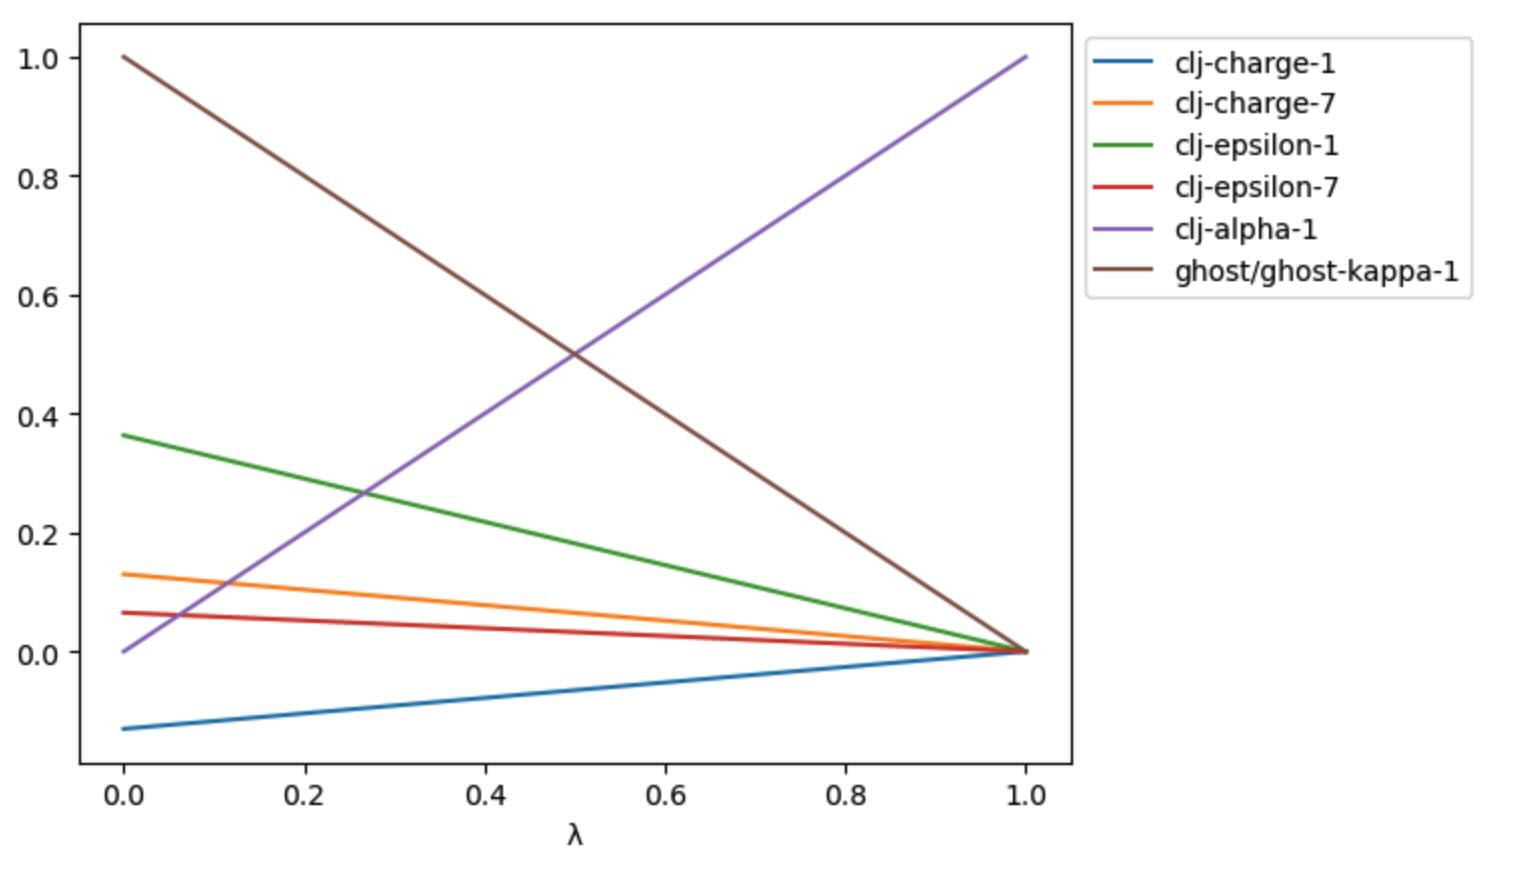
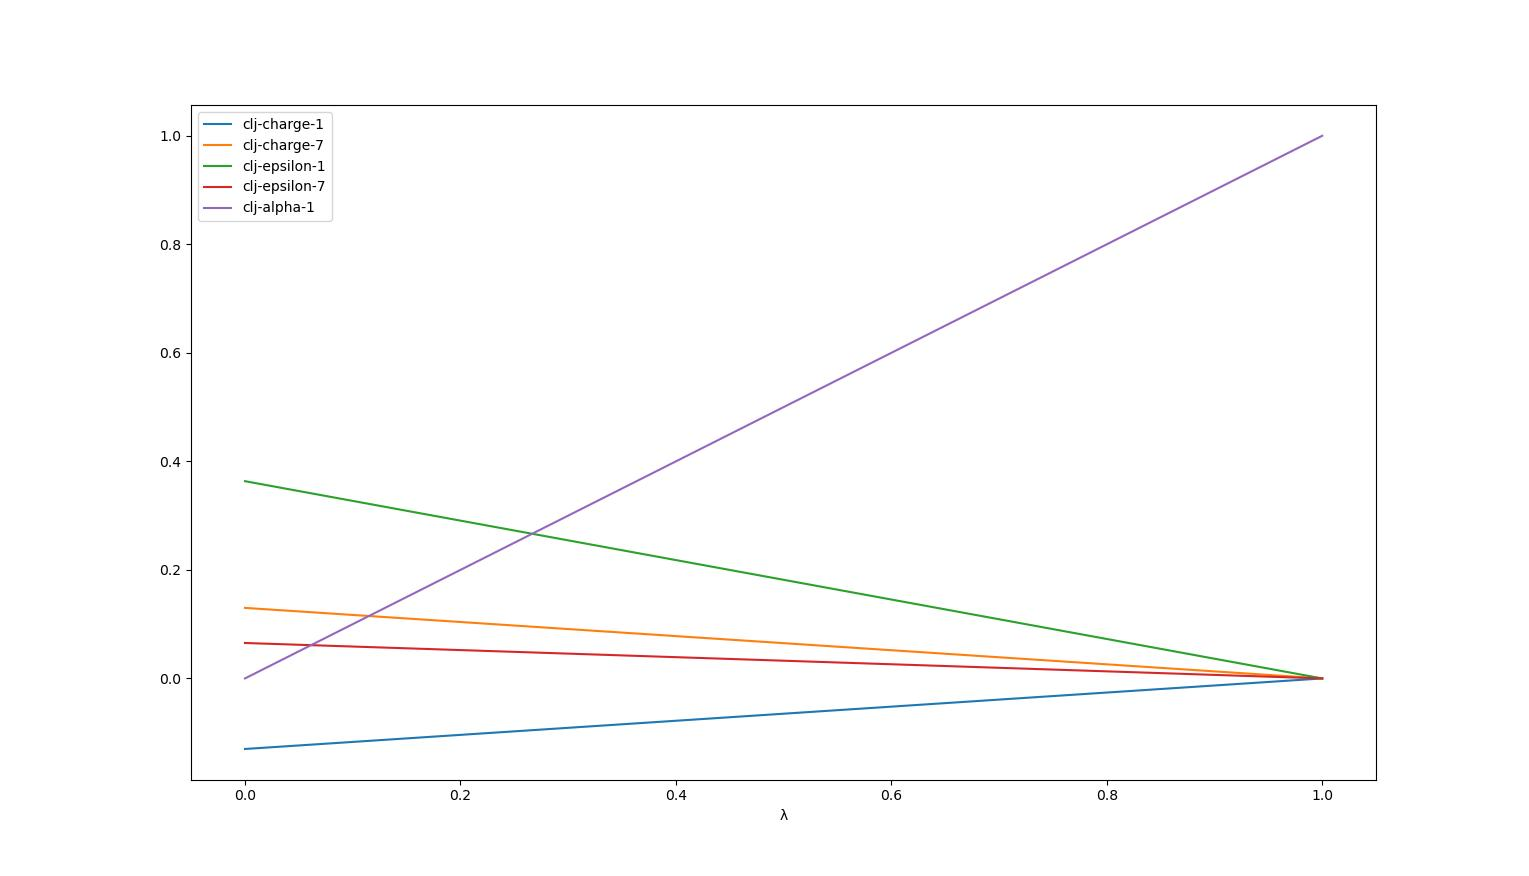
Ignore round-off when reporting changed lever values.

diff --git a/tests/convert/test_openmm_lever_values.py b/tests/convert/test_openmm_lever_values.py
@@ -1,0 +1,26 @@
+import sire as sr
+
+import pytest
+
+
+@pytest.mark.skipif(
+    "openmm" not in sr.convert.supported_formats(),
+    reason="openmm support is not available",
+)
+def test_unchanged_levers_not_reported():
+    """
+    Levers that don't change, apart from round-off, aren't reported.
+    """
+    mols = sr.load_test_files("benzene.prm7", "benzene.rst")
+    benzene = sr.morph.decouple(mols[0], as_new_molecule=False)
+
+    p = benzene.perturbation().to_openmm()
+    df = p.get_lever_values(schedule=benzene.property("schedule"))
+
+    assert list(df.columns) == [
+        "clj-charge-1",
+        "clj-charge-7",
+        "clj-epsilon-1",
+        "clj-epsilon-7",
+        "clj-alpha-1",
+    ]

diff --git a/wrapper/Convert/SireOpenMM/_perturbablemol.py b/wrapper/Convert/SireOpenMM/_perturbablemol.py
@@ -148,7 +148,10 @@ def _get_lever_values(
 
         merged = {}
 
-        # only add in columns that change values
+        from math import isclose
+
+        # only add in columns that change values, ignoring round-off from
+        # morphing between identical end states
         for i in range(len(colnames)):
             column = columns[i]
 
@@ -156,7 +159,7 @@ def _get_lever_values(
                 changed = False
 
                 for j in range(1, len(column)):
-                    if column[j] != column[j - 1]:
+                    if not isclose(column[j], column[0], rel_tol=1e-12, abs_tol=1e-12):
                         changed = True
                         break
 

diff --git a/doc/source/changelog.rst b/doc/source/changelog.rst
@@ -169,6 +169,10 @@ organisation on `GitHub <https://github.com/openbiosim/sire>`__.
   error when it times out, and repeated line search failures no longer retry until the
   timeout.
 
+* ``PerturbableOpenMMMolecule.get_lever_values()`` no longer reports levers whose values
+  only change by floating point round-off, e.g. bonded terms that are the same in both
+  end states.
+
 `2026.2.0 <https://github.com/openbiosim/sire/compare/2026.1.0...2026.2.0>`__ - September 2026
 ----------------------------------------------------------------------------------------------
 
